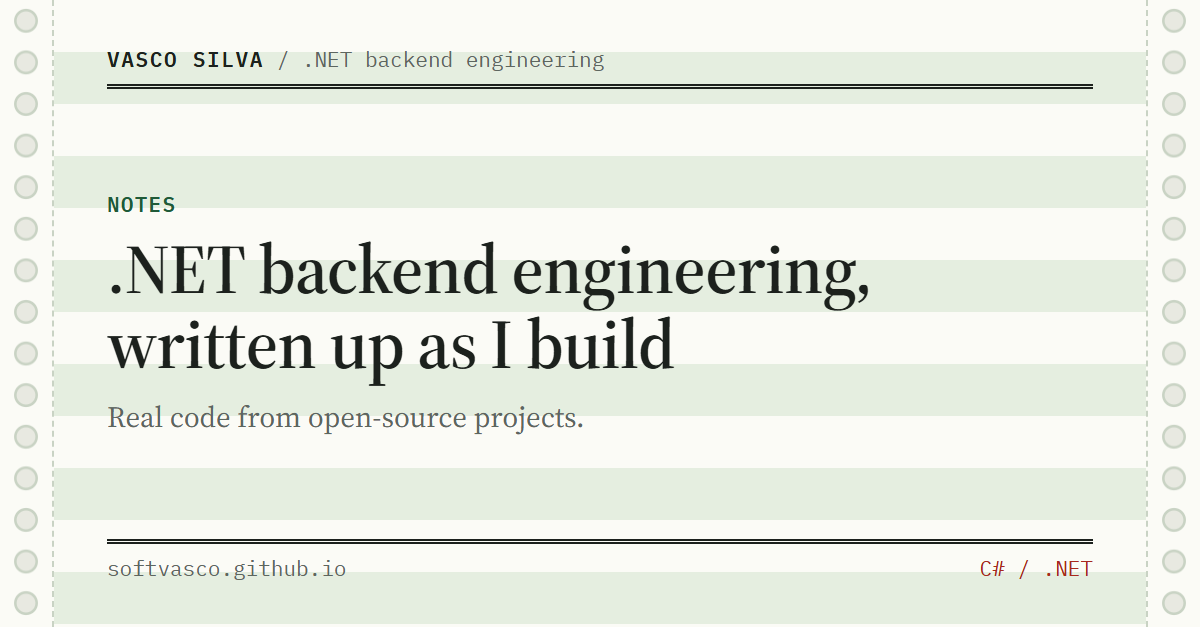
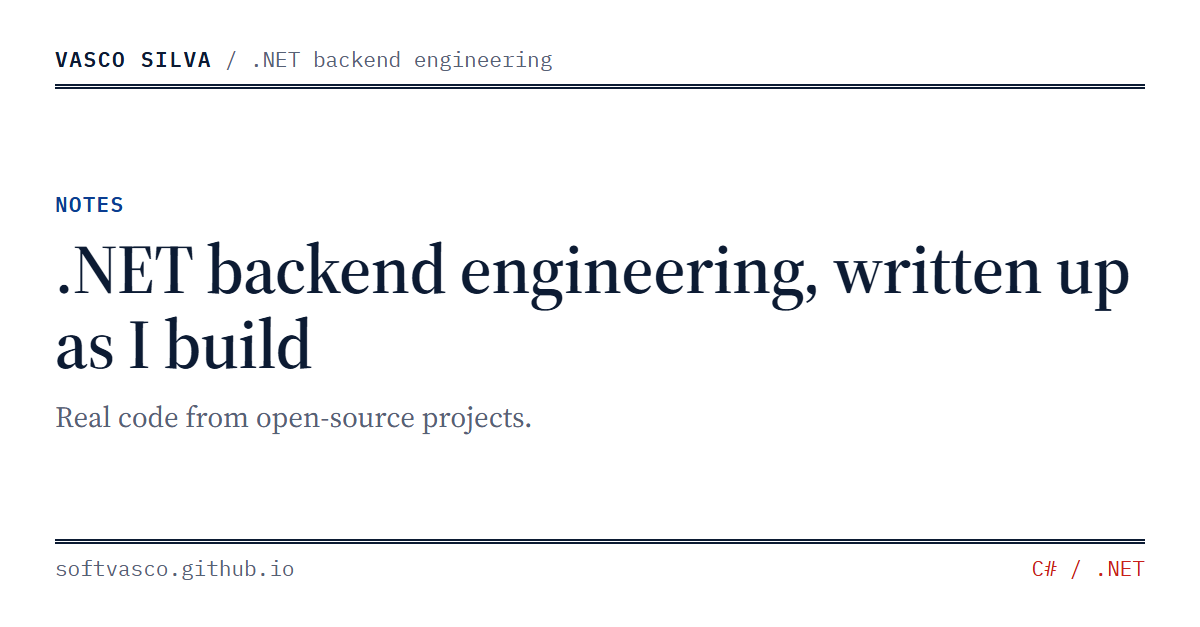
feat(site): navy and red print palette instead of green bars

diff --git a/assets/style.css b/assets/style.css
@@ -1,31 +1,29 @@
-/* continuous-form paper, the green-bar stock bank mainframes printed statements on */
+/* printed-report look: navy ink on white, red only for emphasis */
 :root {
-  --paper: #fbfbf6;
-  --bar: #e5eee0;
-  --ink: #1c211d;
-  --muted: #5d665f;
-  --green: #1f5a38;
-  --red: #a8281d;
-  --ochre: #85550f;
-  --rule: #c9d3c4;
-  --hole: #e8e9e1;
-  --code: #f1f4ec;
+  --paper: #ffffff;
+  --bar: #f2f4f7;
+  --ink: #0c1b33;
+  --muted: #566175;
+  --accent: #0b3d91;
+  --red: #c8201a;
+  --ochre: #8a4b00;
+  --rule: #d4dae3;
+  --code: #f4f6f9;
   --mono: "IBM Plex Mono", ui-monospace, Consolas, monospace;
   --serif: "Source Serif 4", Georgia, serif;
 }
 
 @media (prefers-color-scheme: dark) {
   :root {
-    --paper: #111510;
-    --bar: #182017;
-    --ink: #dde4d8;
-    --muted: #949e91;
-    --green: #8cc79d;
-    --red: #f08b7f;
-    --ochre: #d9b36b;
-    --rule: #2e392c;
-    --hole: #0b0e0a;
-    --code: #161d15;
+  --paper: #0a1220;
+  --bar: #0f1a2c;
+  --ink: #e2e7ef;
+  --muted: #8e99ab;
+  --accent: #7fb0ff;
+  --red: #ff6b5e;
+  --ochre: #e0b36a;
+  --rule: #22314a;
+  --code: #0f1a2c;
   }
 }
 
@@ -46,7 +44,7 @@ body {
   padding: 0 1rem 3rem;
 }
 
-a { color: var(--green); text-decoration-thickness: 1px; text-underline-offset: 3px; }
+a { color: var(--accent); text-decoration-thickness: 1px; text-underline-offset: 3px; }
 a:hover { color: var(--red); }
 
 .side { font-family: var(--mono); font-size: .8rem; padding-top: 2rem; }
@@ -68,23 +66,10 @@ a:hover { color: var(--red); }
 .side nav a:hover, .side .projects a:hover { color: var(--red); }
 .side .projects { margin-top: 1.8rem; padding-top: .8rem; border-top: 1px solid var(--rule); }
 .side .label { text-transform: uppercase; letter-spacing: .06em; color: var(--muted); margin: 0 0 .5rem; }
-.side .projects a { color: var(--green); font-weight: 500; margin-top: .5rem; }
+.side .projects a { color: var(--accent); font-weight: 500; margin-top: .5rem; }
 .side .projects span { display: block; color: var(--muted); line-height: 1.4; }
 
-/* tractor-feed strips down both edges, only when there is room for them */
 @media (min-width: 62rem) {
-  html::before, html::after {
-    content: "";
-    position: fixed;
-    top: 0;
-    bottom: 0;
-    width: 2.4rem;
-    background:
-      radial-gradient(circle at 50% 50%, var(--hole) 0 .32rem, var(--rule) .33rem .4rem, transparent .41rem) 0 0 / 100% 1.5rem repeat-y;
-  }
-  html::before { left: 0; border-right: 1px dashed var(--rule); }
-  html::after { right: 0; border-left: 1px dashed var(--rule); }
-
   .page {
     display: grid;
     grid-template-columns: 14rem minmax(0, 1fr);
@@ -166,7 +151,7 @@ code {
 
 pre {
   background: var(--code);
-  border-left: 3px solid var(--green);
+  border-left: 3px solid var(--accent);
   padding: 1rem 1.1rem;
   overflow-x: auto;
   font-size: .8rem;
@@ -200,7 +185,7 @@ tbody tr:nth-child(odd) { background: var(--bar); }
 
 footer.site { margin-top: 4.5rem; padding-top: .8rem; border-top: 3px double var(--ink); }
 
-.highlight .k, .highlight .kd, .highlight .kt, .highlight .kr, .highlight .kn { color: var(--green); font-weight: 500; }
+.highlight .k, .highlight .kd, .highlight .kt, .highlight .kr, .highlight .kn { color: var(--accent); font-weight: 500; }
 .highlight .s, .highlight .s1, .highlight .s2, .highlight .sc, .highlight .si { color: var(--ochre); }
 .highlight .c, .highlight .c1, .highlight .cm { color: var(--muted); font-style: italic; }
 .highlight .m, .highlight .mi, .highlight .mf { color: var(--red); }
